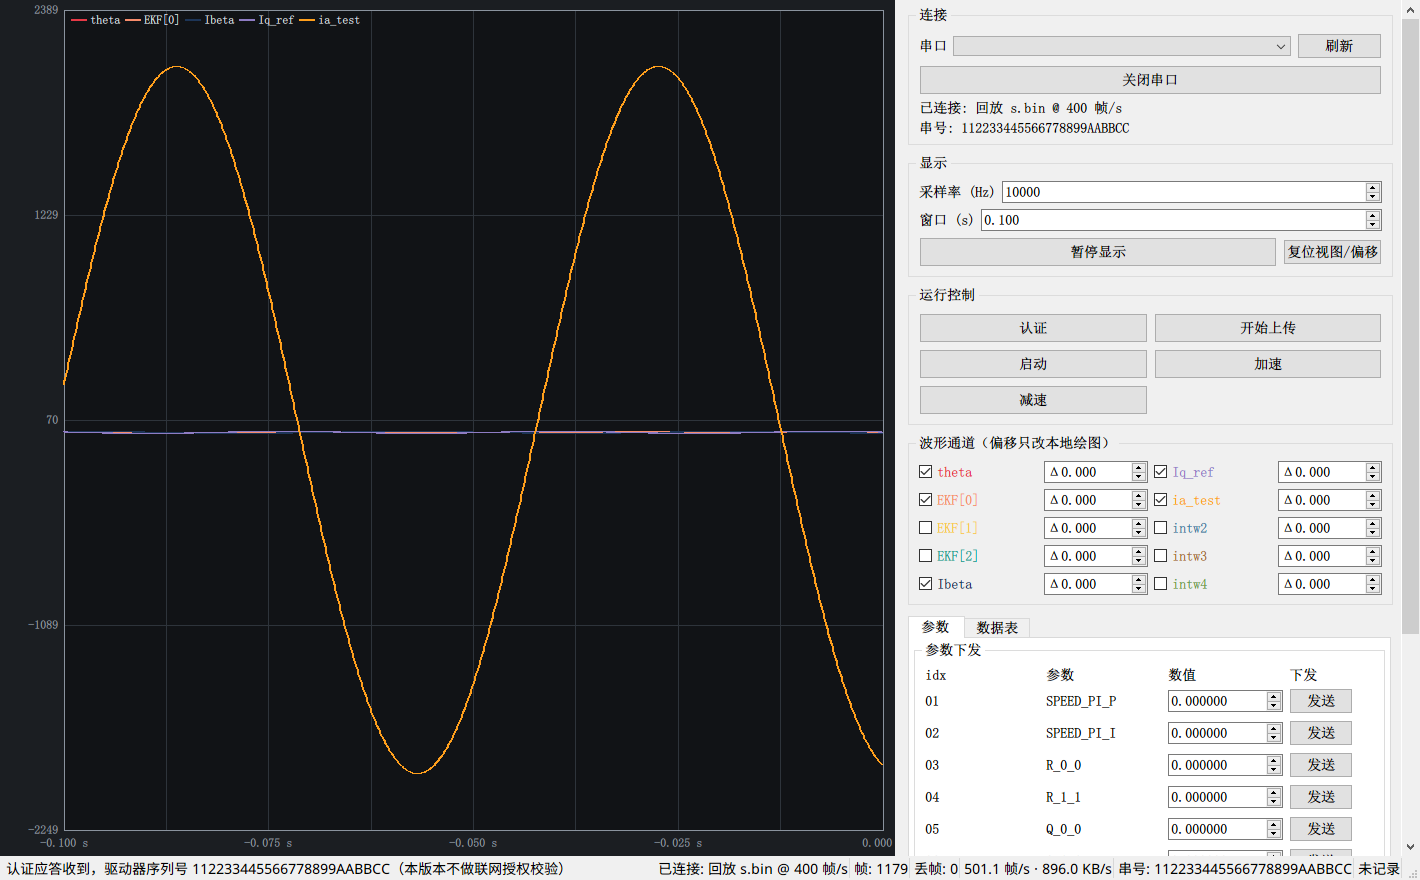
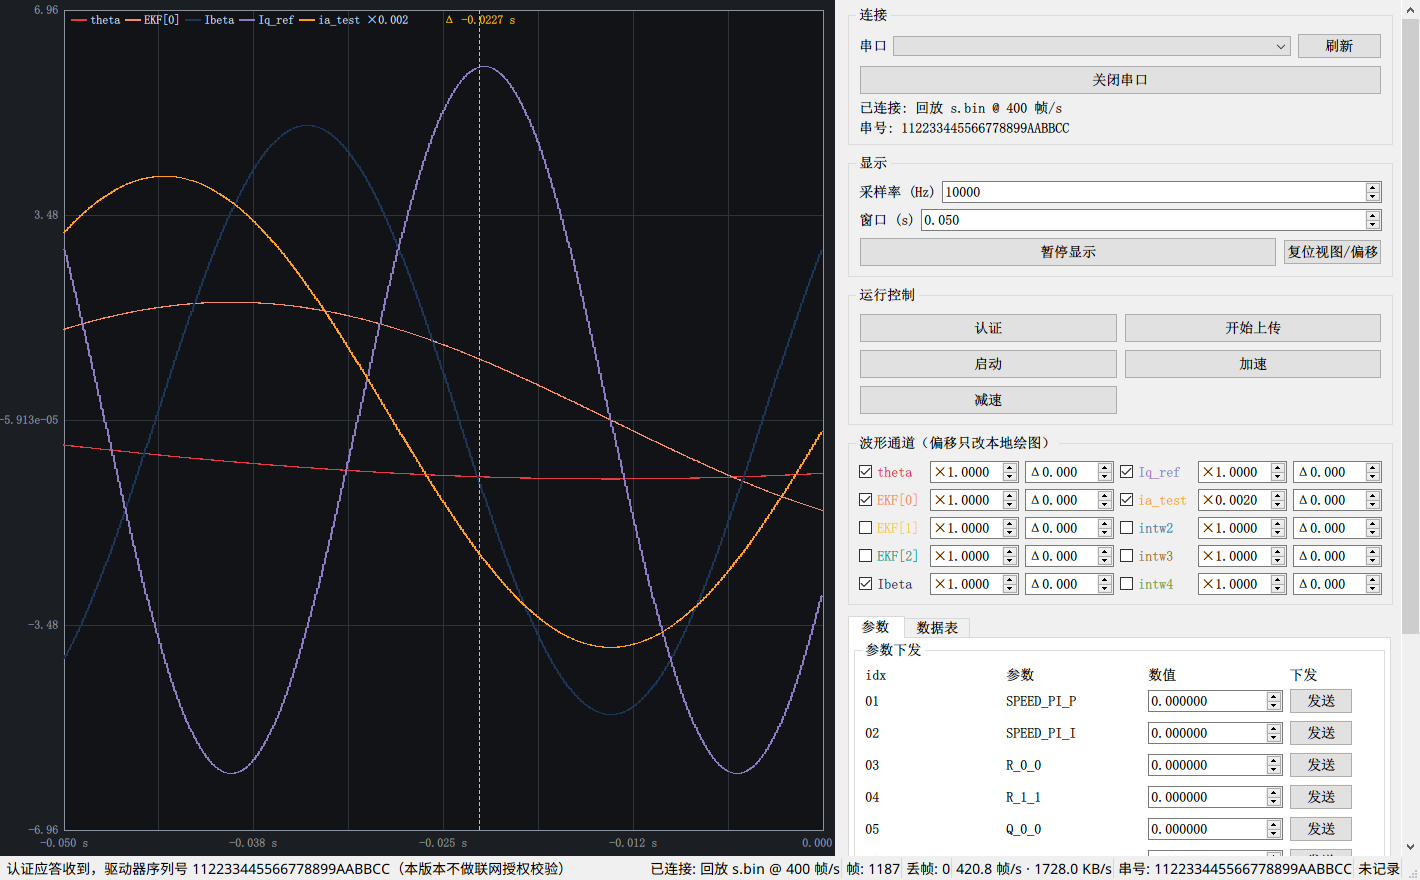
feat(host): per-channel display gain (oscilloscope V/div)
- waveform view: display value = raw * gain - offset, per channel;
  gain is applied to the auto-range calculation as well, so adjusting it
  actually rescales the trace instead of squashing it
- legend marks channels whose gain is not 1 (e.g. "ia_test x0.002")
- "reset view/offset" now restores gains too
- right panel: each channel row is now checkbox + gain + offset; panel default
  width widened and splitter remains user-resizable
- new flag --ch-gain "6=0.002,7=0.001" to preset gains (used to reproduce the
  screenshot in docs/ui.png, where a +/-2000-count channel and +/-6 float
  channels are shown on one screen)
- README: layout section and CLI table updated

diff --git a/smdrive-host/src/ui/main_window.cpp b/smdrive-host/src/ui/main_window.cpp
@@ -65,6 +65,14 @@ MainWindow::MainWindow(const Options &opt, QWidget *parent)
     m_windowBox->setValue(m_opt.windowSeconds);
     m_wave->setWindowSeconds(m_opt.windowSeconds);
 
+    // 启动参数里预设的通道显示增益（--ch-gain "6=0.002,7=0.001"）
+    for (const auto &preset : m_opt.channelGains) {
+        const int ch = preset.first;
+        if (ch < 0 || ch >= m_gainSpins.size())
+            continue;
+        m_gainSpins[ch]->setValue(preset.second);   // 触发 valueChanged → m_wave->setGain
+    }
+
     m_tick = new QTimer(this);
     m_tick->setInterval(16);              // ≈60 Hz
     connect(m_tick, &QTimer::timeout, this, &MainWindow::onTick);
@@ -254,6 +262,16 @@ void MainWindow::buildUi()
         cb->setStyleSheet(QStringLiteral("QCheckBox{color:%1;}").arg(meta[size_t(c)].color.name()));
         m_wave->setChannelVisible(c, meta[size_t(c)].visible);
 
+        auto *gain = new QDoubleSpinBox(chanBox);
+        gain->setRange(1e-4, 1e5);
+        gain->setDecimals(4);
+        gain->setValue(1.0);
+        gain->setPrefix(QStringLiteral("×"));
+        gain->setToolTip(QStringLiteral("显示增益（示波器 V/div 等价物；只影响绘图，不发帧）"));
+        gain->setMinimumWidth(84);
+        gain->setMaximumWidth(104);
+        m_gainSpins.append(gain);
+
         auto *offset = new QDoubleSpinBox(chanBox);
         offset->setRange(-1e9, 1e9);
         offset->setDecimals(3);
@@ -264,13 +282,16 @@ void MainWindow::buildUi()
         offset->setMaximumWidth(104);
 
         connect(cb, &QCheckBox::toggled, this, [this, c](bool on) { m_wave->setChannelVisible(c, on); });
+        connect(gain, QOverload<double>::of(&QDoubleSpinBox::valueChanged), this,
+                [this, c](double v) { m_wave->setGain(c, v); });
         connect(offset, QOverload<double>::of(&QDoubleSpinBox::valueChanged), this,
                 [this, c](double v) { m_wave->setOffset(c, v); });
 
         const int row = c % rowsPerCol;
-        const int col = (c / rowsPerCol) * 2;
+        const int col = (c / rowsPerCol) * 3;
         chanGrid->addWidget(cb, row, col);
-        chanGrid->addWidget(offset, row, col + 1);
+        chanGrid->addWidget(gain, row, col + 1);
+        chanGrid->addWidget(offset, row, col + 2);
     }
     chanOuter->addLayout(chanGrid);
     panelLayout->addWidget(chanBox);
@@ -310,15 +331,15 @@ void MainWindow::buildUi()
     panelScroll->setWidgetResizable(true);
     panelScroll->setFrameShape(QFrame::NoFrame);
     panelScroll->setHorizontalScrollBarPolicy(Qt::ScrollBarAsNeeded);
-    panelScroll->setMinimumWidth(470);
-    panelScroll->setMaximumWidth(820);
+    panelScroll->setMinimumWidth(560);
+    panelScroll->setMaximumWidth(900);
 
     auto *splitter = new QSplitter(Qt::Horizontal, this);
     splitter->addWidget(m_wave);
     splitter->addWidget(panelScroll);
     splitter->setStretchFactor(0, 1);
     splitter->setStretchFactor(1, 0);
-    splitter->setSizes({900, 520});
+    splitter->setSizes({840, 580});
     splitter->setChildrenCollapsible(false);
     setCentralWidget(splitter);
 

diff --git a/smdrive-host/src/ui/waveform_view.cpp b/smdrive-host/src/ui/waveform_view.cpp
@@ -66,6 +66,19 @@ double WaveformView::offset(int channel) const
     return (channel >= 0 && channel < m_channelCount) ? m_offsets[channel] : 0.0;
 }
 
+void WaveformView::setGain(int channel, double gain)
+{
+    if (channel < 0 || channel >= m_channelCount)
+        return;
+    m_gains[channel] = (gain == 0.0) ? 1.0 : gain;   // 0 会让通道彻底消失，按 1 处理
+    update();
+}
+
+double WaveformView::gain(int channel) const
+{
+    return (channel >= 0 && channel < m_channelCount) ? m_gains[channel] : 1.0;
+}
+
 void WaveformView::setYRange(double lo, double hi)
 {
     if (hi <= lo)
@@ -82,6 +95,8 @@ void WaveformView::resetView()
     m_paused = false;
     for (double &o : m_offsets)
         o = 0.0;
+    for (double &g : m_gains)
+        g = 1.0;
     update();
 }
 
@@ -139,10 +154,12 @@ void WaveformView::paintEvent(QPaintEvent *)
                 const double s1 = startSample + (endSample - startSample) * (col + 1) / cols;
                 const quint64 i0 = quint64(std::max(0.0, std::floor(s0)));
                 const quint64 i1 = quint64(std::max(0.0, std::ceil(s1)));
+                const quint64 firstAbs = rb.absoluteIndex(0);
                 for (quint64 idx = i0; idx < i1; ++idx) {
                     if (!rb.contains(idx))
                         continue;
-                    const double v = double(rb.at(size_t(idx - rb.absoluteIndex(0))));
+                    // 量程必须用“显示值”（含增益与偏移），否则调增益后曲线会被压平
+                    const double v = double(rb.at(size_t(idx - firstAbs))) * m_gains[c] - m_offsets[c];
                     ymin = std::min(ymin, v);
                     ymax = std::max(ymax, v);
                 }
@@ -248,7 +265,7 @@ void WaveformView::drawCurves(QPainter &p, const QRectF &plot, double startSampl
             for (quint64 idx = i0; idx < i1; ++idx) {
                 if (!rb.contains(idx))
                     continue;
-                const double v = double(rb.at(size_t(idx - firstAbs))) - m_offsets[c];
+                const double v = double(rb.at(size_t(idx - firstAbs))) * m_gains[c] - m_offsets[c];
                 if (!any) {
                     lo = hi = v;
                     any = true;
@@ -290,7 +307,10 @@ void WaveformView::drawLegend(QPainter &p, const QRectF &plot) const
     for (int c = 0; c < m_channelCount; ++c) {
         if (!m_visible[c])
             continue;
-        const QString label = meta[size_t(c)].name;
+        QString label = meta[size_t(c)].name;
+        if (!qFuzzyCompare(m_gains[c], 1.0)) {                 // 增益非 1 时在图例里标出来
+            label += QStringLiteral(" ×%1").arg(m_gains[c], 0, 'g', 4);
+        }
         const double w = p.fontMetrics().horizontalAdvance(label) + 24;
         if (x + w > plot.right() - 8) {
             x = plot.left() + 8;

diff --git a/smdrive-host/src/main.cpp b/smdrive-host/src/main.cpp
@@ -34,13 +34,17 @@ int main(int argc, char *argv[])
     const QCommandLineOption shotDelayOpt(QStringLiteral("shot-delay"),
                                           QStringLiteral("截图前等待毫秒数"), QStringLiteral("ms"),
                                           QStringLiteral("1500"));
+    const QCommandLineOption gainOpt(QStringLiteral("ch-gain"),
+                                     QStringLiteral("启动时预设通道显示增益，如 \"6=0.002,7=0.001\"（通道号=增益）"),
+                                     QStringLiteral("list"));
     const QCommandLineOption rateOpt(QStringLiteral("sample-rate"),
                                      QStringLiteral("采样率 Hz（决定时间轴）"), QStringLiteral("hz"),
                                      QStringLiteral("10000"));
     const QCommandLineOption winOpt(QStringLiteral("window"),
                                     QStringLiteral("显示窗口秒数"), QStringLiteral("sec"),
                                     QStringLiteral("0.2"));
-    parser.addOptions({replayOpt, fpsOpt, rawOpt, csvOpt, closeOpt, shotOpt, shotDelayOpt, rateOpt, winOpt});
+    parser.addOptions({replayOpt, fpsOpt, rawOpt, csvOpt, closeOpt, shotOpt, shotDelayOpt, gainOpt,
+                       rateOpt, winOpt});
     parser.process(app);
 
     smd::MainWindow::Options opt;
@@ -53,6 +57,17 @@ int main(int argc, char *argv[])
     opt.screenshotDelayMs = parser.value(shotDelayOpt).toInt();
     opt.sampleRateHz = parser.value(rateOpt).toInt();
     opt.windowSeconds = parser.value(winOpt).toDouble();
+
+    for (const QString &item : parser.value(gainOpt).split(QLatin1Char(','), Qt::SkipEmptyParts)) {
+        const QStringList kv = item.split(QLatin1Char('='));
+        if (kv.size() == 2) {
+            bool okIdx = false, okVal = false;
+            const int idx = kv.at(0).trimmed().toInt(&okIdx);
+            const double val = kv.at(1).trimmed().toDouble(&okVal);
+            if (okIdx && okVal && val > 0.0)
+                opt.channelGains.append(qMakePair(idx, val));
+        }
+    }
 
     smd::MainWindow window(opt);
     window.show();

diff --git a/smdrive-host/src/ui/main_window.h b/smdrive-host/src/ui/main_window.h
@@ -40,6 +40,7 @@ public:
         QString recordCsvPath;       // 启动即记录 CSV
         QString screenshotPath;      // 抓一张界面截图（开发/验证用）
         int screenshotDelayMs = 1500;
+        QVector<QPair<int, double>> channelGains;   // 启动时预设的每通道显示增益
         int autoCloseMs = 0;         // >0 则到点自动退出（自动化验证用）
         int sampleRateHz = 10000;
         double windowSeconds = 0.2;
@@ -92,6 +93,7 @@ private:
     QComboBox *m_portBox = nullptr;
     QSpinBox *m_rateBox = nullptr;
     QDoubleSpinBox *m_windowBox = nullptr;
+    QVector<QDoubleSpinBox *> m_gainSpins;   // 每通道显示增益输入框
     QLabel *m_connLabel = nullptr;      // 右侧面板内的连接状态
     QLabel *m_serialLabel = nullptr;    // 右侧面板内的串号
     QLabel *m_statusPort = nullptr;

diff --git a/smdrive-host/src/ui/waveform_view.h b/smdrive-host/src/ui/waveform_view.h
@@ -25,6 +25,9 @@ public:
     bool channelVisible(int channel) const;
     void setOffset(int channel, double value);
     double offset(int channel) const;
+    /// 每通道显示增益（示波器的 V/div 等价物）：显示值 = 原始值 × gain − offset
+    void setGain(int channel, double gain);
+    double gain(int channel) const;
     void setAutoScale(bool on) { m_autoScale = on; update(); }
     bool autoScale() const { return m_autoScale; }
     void setYRange(double lo, double hi);
@@ -53,6 +56,7 @@ private:
     double m_windowSeconds = 0.2;
     int m_channelCount = 10;
     bool m_visible[10] = {true, true, false, false, true, true, true, false, false, false};
+    double m_gains[10] = {1, 1, 1, 1, 1, 1, 1, 1, 1, 1};
     double m_offsets[10] = {0, 0, 0, 0, 0, 0, 0, 0, 0, 0};
     bool m_autoScale = true;
     double m_manualMin = -1.0;

diff --git a/smdrive-host/README.md b/smdrive-host/README.md
@@ -37,6 +37,7 @@ packaging\make_installer.bat   :: 出安装包    -> installer\smdrive-host-1.0.
 | `--window <sec>` | 波形显示窗口，默认 0.2 |
 | `--shot <file.png>` | 启动后抓一张界面截图（开发/验证用） |
 | `--shot-delay <ms>` | 截图前等待毫秒数，默认 1500 |
+| `--ch-gain "<ch>=<gain>[,…]"` | 启动时预设通道显示增益，如 `"6=0.002,7=0.001"` |
 | `--auto-close <ms>` | N 毫秒后自动退出（自动化验证用） |
 
 无头运行（CI/脚本）：`set QT_QPA_PLATFORM=offscreen`（`dist\platforms\` 已随包带 `qoffscreen.dll`）。
@@ -51,7 +52,7 @@ packaging\make_installer.bat   :: 出安装包    -> installer\smdrive-host-1.0.
 │                                      │ 连接             │  串口 / 刷新 / 打开关闭
 │          波形窗口（双轴网格 + 图例）    │ 显示             │  采样率 / 窗口 / 暂停 / 复位
 │      滚轮缩放 · 拖动翻历史 · 双击复位   │ 运行控制         │  认证 / 开始上传 / 启动 / 加速 / 减速
-│      虚线游标显示 Δt                  │ 波形通道 ×2 列   │  勾选显示 + Δ 偏移（只改本地绘图）
+│      虚线游标显示 Δt                  │ 波形通道 ×2 列   │  ☑显示 + ×增益 + Δ偏移（只改本地绘图）
 │                                      │ 参数 | 数据表     │  参数下发 / 实时数值
 │                                      │ 记录 / 回放       │  CSV+BIN 记录 / 回放 .bin
 └──────────────────────────────────────┴─────────────────┘
@@ -60,7 +61,10 @@ packaging\make_installer.bat   :: 出安装包    -> installer\smdrive-host-1.0.
 
 ![界面截图](docs/ui.png)
 
-- 通道勾选框用通道自身颜色显示；`Δ` 是绘图偏移（只影响本地显示，不向驱动器发帧）。
+- 通道勾选框用通道自身颜色显示。`×` 是**显示增益**（示波器 V/div 的等价物），`Δ` 是绘图偏移；
+  两者都只影响本地显示、不向驱动器发帧，"复位视图/偏移" 会把增益与偏移一起还原。
+- 典型用法：整型通道是 ±2000 计数、浮点通道只有 ±几，给整型通道填 `×0.002` 就能让两者同屏可比
+  （增益非 1 的通道会在图例里标出 `×值`）。
 - 波形区交互：滚轮缩放窗口、左键拖动翻看历史（自动进入暂停态）、双击回到实时跟随。
 - 右栏可拖动分隔条调宽窄，内容超高时自动出现滚动条。
 
